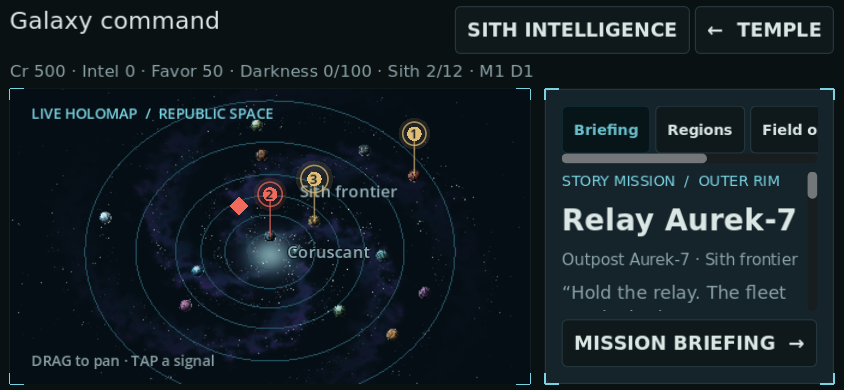
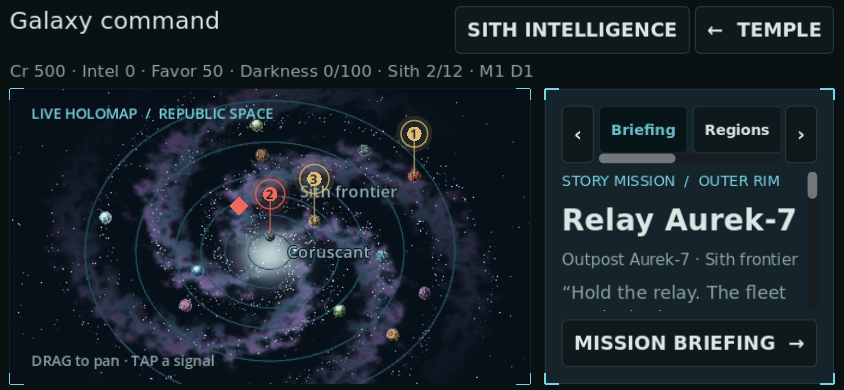
Show full Temple room names without overlapping plates; scrollable phone galaxy tabs

Changed region(s): [[0.0616, 0.2154, 0.5853, 0.9846], [0.6469, 0.3077, 0.9858, 0.4308]]

diff --git a/docs/godot/w13/home/REPORT.md b/docs/godot/w13/home/REPORT.md
@@ -5,6 +5,7 @@
 - Galaxy opens from the live teaser on the Temple home screen. The starfield and planet map now occupy the full height of the strategy view, with threat and mission markers on the map and a narrower briefing panel beside it. The Temple button and Escape return to home.
 - The Temple cutaway has deeper recessed room faces and lit thresholds. Room plates now show **BUILT**, **BUILDING**, or **EMPTY**. Longer desktop names wrap at word boundaries or scale to fit; alerts stay in the command bar and galaxy teaser rather than covering room names. Phone room details remain available through the Rooms drawer.
 - Compatibility renders the small galaxy planets with fewer triangles. No Low-tier post effect or project quality setting changed.
+- Follow-up: desktop room names, state, and battle bonus now occupy separate lines inside their own room targets. This removes the WAR ROOM / ARCHIVES clipping and collisions with neighboring floor labels. Phone keeps room names in the Rooms drawer. The phone galaxy briefing has visible left and right tab scroll controls.
 
 ## Visual evidence
 
@@ -32,7 +33,8 @@ The geoscape still uses a stylized orbital map rather than detailed planet surfa
 
 ## Gate
 
-- Import: passed, no script errors (`import-final.log`).
-- `home13_test`: layout, labels, room states, map markers, Low renderer setting, navigation at both sizes; captures passed.
-- Full `./godot/test.sh`: exit 0, zero `SCRIPT ERROR` lines, every suite zero failures (`test-final.log`). Normal rescue was 9/20; Wave 11 families were 8/20, 16/20, and 16/20.
+- Fix follow-up: desktop room plates now stack name, state and bonus inside the upper part of each room target, so "WAR ROOM" and "ARCHIVES" show in full and no plate touches another room's. The phone briefing tab row scrolls, with ‹ › buttons and a scrollbar.
+- `home13_test` collects the global rects of every visible room name, state, bonus and alert plate, fails if two from different rooms intersect, and checks each text fits its rect, at both sizes. Captures: desktop 1,115 checks, phone 19 checks, zero failures (`after-desktop.log`, `after-phone.log`).
+- Import: passed, no script errors (`import-final2.log`).
+- Full `./godot/test.sh`: exit 0, zero `SCRIPT ERROR` lines, every suite zero failures (`test-final2.log`). Normal rescue was 9/20.
 - `git diff --check`: clean.
